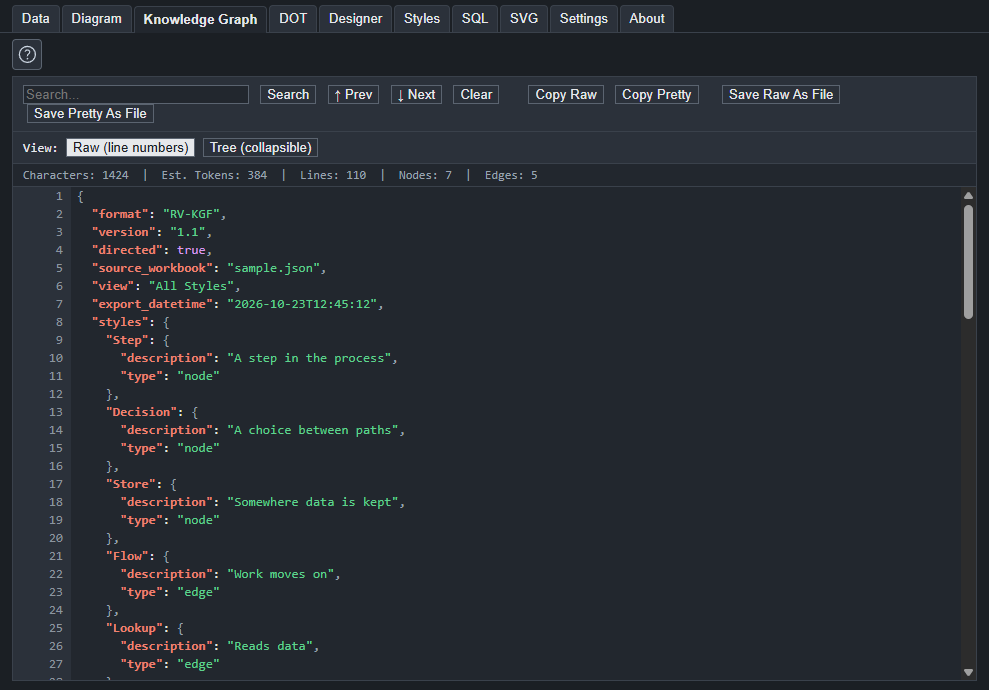
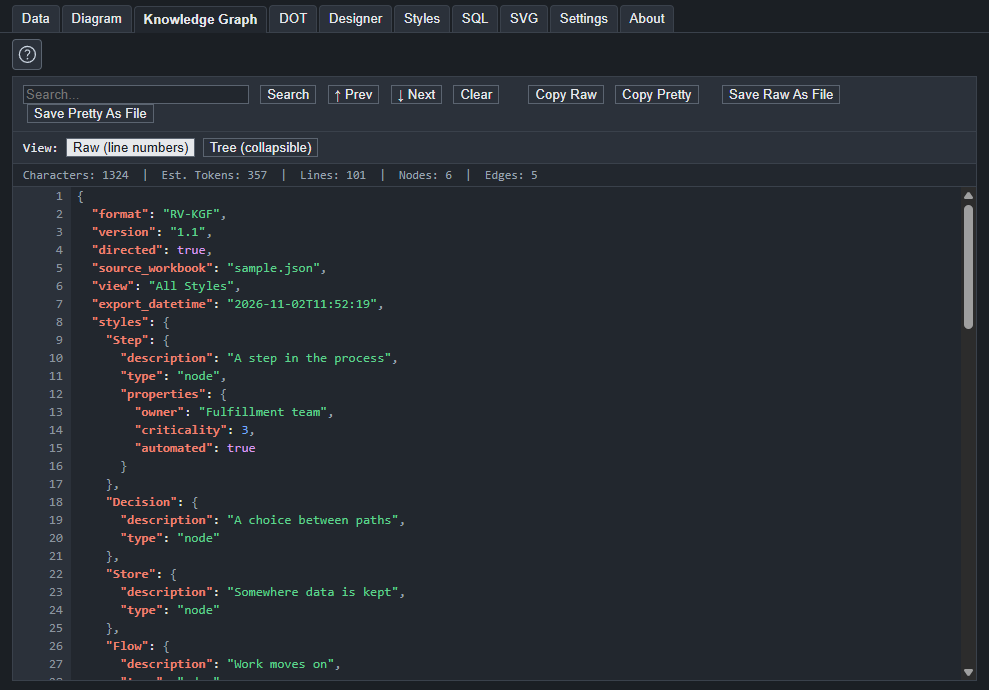
Document beta 6: new screenshots, the license dialogs, the Designer's description and properties
All the screenshots of tabs with a toolbar are taken again, and the About, license, SQL edit, SVG edit and Properties windows are new.
The Designer page explains a style's Description and Properties and how a value is read, the Knowledge Graph page says where each part of the file comes
from, and the documentation home and Getting started say more about the Knowledge Graph. The Data and Diagram pages describe the split-window button,
the divider, saved column widths, adding several rows, and the new zoom. The SQL page says what to do with an Apple Numbers file. What's new has an entry
for beta 6, whose date is still to be set at release.

These pages describe beta 6, so they go live with it, not before.

diff --git a/content/docs/designer/index.md b/content/docs/designer/index.md
@@ -2,7 +2,8 @@
 
 A style is a name and a format, and the format is a list of Graphviz attributes such as `shape="box"` and `fillcolor="#e0f2f7"`.
 You can type a format into the Styles tab, but you need to know the attribute names and what values they take. The Designer
-lets you choose them from menus, shows the result as you go, and writes the format for you.
+lets you choose them from menus, shows the result as you go, and writes the format for you. It also holds the **Description** and the **Properties** of a style, which
+do not change the drawing but travel with the style into the [Knowledge Graph](/docs/knowledge-graph/).
 
 <img class="shot shot-light" src="/shots/designer-light.png" alt="The Designer building a node style, with a preview and the format string it writes">
 <img class="shot shot-dark" src="/shots/designer-dark.png" alt="The Designer in the dark theme">
@@ -12,7 +13,8 @@ lets you choose them from menus, shows the result as you go, and writes the form
 1. Choose what you are designing with **Node**, **Edge** or **Cluster** at the top, each with a small picture of what it is. Only the choices that apply to it are shown.
 2. Pick values on the left. The preview on the right is drawn by Graphviz after every change, and the **Format string** below
    it shows what is being written.
-3. Give the style a **Style name** and, if you like, a **Description**.
+3. Give the style a **Style name**. A **Description** and **Properties** say what the style means, for the Knowledge Graph; see
+   [Description and properties](#description-and-properties).
 4. Press **Save to styles**. The style is added to the Styles tab, or updated if one of that name is there.
 
 To change a style you already have, click its **Format** cell on the Styles tab and press the pencil that appears in the cell. The Designer opens with that
@@ -38,7 +40,6 @@ The choices are in groups, and the ones that do not apply to what you are design
 - **Packing (osage layout)** is offered for a cluster when the layout is osage. See [Units and packing](/docs/units-and-packing/#the-osage-layout-and-clusters).
 - **Position** choices, such as where a label sits in a cluster, are buttons with an icon: vertical position first, then
   horizontal. A second press on the chosen button clears it.
-- **Properties** are facts about the style that do not change the drawing but go into the Knowledge Graph.
 
 The tick boxes under **Label text** decide whether the text typed there becomes part of the style, or is only used to draw the
 preview.
@@ -47,6 +48,46 @@ preview.
 style was made.
 
 For the meaning of each attribute, see [Graphviz's own pages on attributes](https://graphviz.org/doc/info/attrs.html).
+
+## Description and properties
+
+A style says how something looks, and it can also say what it is. Under the preview, beside the **Style name**, are a **Description** and **Properties**. Neither changes
+how anything is drawn. Both go into every [Knowledge Graph](/docs/knowledge-graph/) that uses the style, so a program or an AI tool that reads the file learns what a
+`Step` is without having to see the picture.
+
+- **Description** is a sentence about the kind of thing the style stands for, such as "A step in the process" or "Somewhere data is kept". It is also the **Description**
+  column of the [Styles](/docs/styles/) tab.
+- **Properties** are facts that go with every node, edge or cluster of the style: who owns that kind of thing, how critical it is, which system it lives in. The box shows
+  them as `name=value` pairs. Press the **pencil** beside it to open **Properties of style "Step"**, a small grid with a line for each property.
+
+<img class="shot shot-light" src="/shots/properties-light.png" alt="The Properties box of a style, with three properties and how each is read">
+<img class="shot shot-dark" src="/shots/properties-dark.png" alt="The Properties box of a style, with three properties and how each is read in the dark theme">
+
+Each line has a **Name**, a **Value**, and **Read as**, which says how the value will be written into the Knowledge Graph. The plus button adds a line and the minus button at
+the end of a line removes it. **Save** keeps the changes in the style, and **Cancel** leaves it as it was. The way a value is typed decides how it is read:
+
+| You type | Read as | In the Knowledge Graph |
+| --- | --- | --- |
+| `"Fulfillment team"` | text | `"Fulfillment team"` |
+| `3` | number | `3` |
+| `true` | true/false | `true` |
+| `"3"` | text | `"3"` |
+
+Text with spaces goes in double quotes. A bare number is a number, and a bare `true` or `false` is a true/false value; the same words in quotes are text. So
+`criticality=3` lets a program add up and compare, where `criticality="3"` does not.
+
+The style above comes out in the Knowledge Graph like this:
+
+```json
+"Step": {
+  "description": "A step in the process",
+  "type": "node",
+  "properties": { "owner": "Fulfillment team", "criticality": 3, "automated": true }
+}
+```
+
+Press **Save to styles** to write the Description and the Properties along with the format. A row on the [Data](/docs/data/) tab can have properties of its own, in its **Properties** column.
+Those belong to that one node or edge, and the style's belong to every one of that style.
 
 ## Pictures in nodes
 

diff --git a/content/docs/about/index.md b/content/docs/about/index.md
@@ -2,7 +2,7 @@
 
 The About tab says what you are running, whether it has a commercial license, who made it, and what it is built on.
 
-<img class="shot shot-light" src="/shots/about-light.png" alt="The top of the About tab, with the version information">
+<img class="shot shot-light" src="/shots/about-light.png" alt="The top of the About tab, with the name of the program and the start of the license section">
 <img class="shot shot-dark" src="/shots/about-dark.png" alt="The top of the About tab in the dark theme">
 
 ## Your license
@@ -10,11 +10,34 @@ The About tab says what you are running, whether it has a commercial license, wh
 Graph Modeler is free for personal, educational, research and other non-commercial use, and a commercial license is for use at work, for a business or for clients.
 The first time the program starts it asks which applies to you, and this section shows the answer. **Nothing is switched off, whichever you choose.**
 
+### The first time it starts
+
+<img class="shot shot-light" src="/shots/license-welcome-light.png" alt="The question asked when the program starts for the first time, with three choices">
+<img class="shot shot-dark" src="/shots/license-welcome-dark.png" alt="The question asked when the program starts for the first time, with three choices in the dark theme">
+
+There are three choices:
+
+- **Enter license key** is for a commercial license you have bought. See below for how to get the key. The box takes the key and asks Polar whether it is valid.
+- **I will use it only for personal or other non-commercial purposes** goes on to one more step, which says what the license covers and asks you to tick a box that confirms it.
+  **Continue** stays off until the box is ticked. The date you confirmed is kept on your computer and shown here on the About tab. Nothing is sent anywhere.
+- **Buy a license** opens the [Pricing](/pricing/) page in your browser, where the price and the buy button are.
+
+<img class="shot shot-light" src="/shots/license-confirm-light.png" alt="The confirmation for personal use, with its box ticked">
+<img class="shot shot-dark" src="/shots/license-confirm-dark.png" alt="The confirmation for personal use, with its box ticked in the dark theme">
+
+<img class="shot shot-light" src="/shots/license-key-light.png" alt="The box that takes a license key">
+<img class="shot shot-dark" src="/shots/license-key-dark.png" alt="The box that takes a license key in the dark theme">
+
+If you close the question without answering, it asks again the next time the program starts. You can enter a key at any time from this tab.
+
+<img class="shot shot-light" src="/shots/about-license-light.png" alt="The license and updates sections of the About tab">
+<img class="shot shot-dark" src="/shots/about-license-dark.png" alt="The license and updates sections of the About tab in the dark theme">
+
 | It says | It means |
 | --- | --- |
 | **Licensed for commercial use** | A commercial license key was entered and Polar accepted it. It shows who the license is for, the key with most of it hidden, and the date it was last checked. |
 | **Licensed for non-commercial use** | A key for free non-commercial use was entered. It shows the same lines. |
-| **No commercial license: personal and non-commercial use only** | You chose free personal use, on the date shown. |
+| **No commercial license: personal and non-commercial use only** | You confirmed free personal use, on the date shown. A choice made in an earlier beta, before the confirmation existed, shows "chosen" in place of "confirmed". |
 | **No commercial license** | You have not answered the question yet. |
 
 The buttons:
@@ -23,7 +46,7 @@ The buttons:
   then shows your key. The program asks Polar whether the key is valid, and keeps it only if it is.
 - **Check now** asks Polar again at once. Otherwise a key is checked when you enter it and about every 30 days when the program starts.
 - **Enter another key** and **Remove key** change or clear the key.
-- **Buy a license** opens the [License](/license/) page in your browser.
+- **Buy a license** opens the [Pricing](/pricing/) page in your browser. The [License](/license/) page has the full text of the license.
 
 If Polar cannot be reached, because you are offline or behind a firewall, nothing changes: the program keeps the last result and no message is shown. Only when Polar
 says the key is no longer active, for example after a refund, does the program take the key off and ask the first question again, with the reason. It can still be used

diff --git a/content/docs/data/index.md b/content/docs/data/index.md
@@ -44,7 +44,7 @@ choose that style in the **Style Name** cell of the row that opens it.
 | **Item** | The node, or the start of an edge. |
 | **Label** | The text drawn on the node or the edge. Leave it empty to use the item's name. |
 | **Related Item** | The end of an edge. |
-| **Style Name** | The style the row uses. The list holds the styles of the Styles tab. |
+| **Style Name** | The style the row uses. The list holds the styles that suit the row: the node styles for a node, the edge styles for an edge, and so on. A row whose **Item** is `node` or `edge` sets the defaults for every node or every edge after it, so its list holds the node styles or the edge styles. A `graph` row is offered the keyword styles. |
 | **Attributes** | Graphviz attributes for this row alone, such as `color=red penwidth=2`. They win over the style's. |
 | **Properties** | Facts about the item that do not change the drawing but go into the Knowledge Graph, such as `owner="Finance" tier=1`. The pencil opens a small grid to edit them. |
 
@@ -58,13 +58,26 @@ A style's label can use `{label}`, `{xlabel}`, `{taillabel}` and `{headlabel}`, 
 - Type in a cell, or paste rows copied from Excel or another grid. Several cells paste at once.
 - Drag the small handle at the corner of the chosen cell to fill down.
 - **Undo** and **Redo** in the left pane step through your changes, including a paste or a fill.
-- The **Rows** buttons add a row above or below, remove the chosen rows, and comment them out or back in.
+- The row buttons add a row above or below, remove the chosen rows, and comment them out or back in. Choose several rows and **Add row above** or **Add row below** adds as many
+  rows as you chose, the way **Delete rows** removes as many.
+- Drag the edge of a column's heading to change the width of the column. The widths are saved with the project, and each of the Data, Styles and SQL tabs keeps its own.
+  **Reset widths**, in the menu of the columns button, puts the columns of that tab back to their usual widths.
 - **Clear data** (the trash can with sweep lines) removes every row and keeps your styles. A new project starts with a few
   empty rows to type into.
 
 ## Seeing the graph
 
-The **Graph** menu on the toolbar puts the diagram on its own tab, or beside the data so that you see it change as you type.
-The button beside it, with the arrows going round, draws after every change, and the button after that draws once.
+The button with the split window on the toolbar shows the diagram beside the data, so that you see it change as you type, and hides it again when you want the whole width for the data.
+The diagram is always on the [Diagram](/docs/diagram/) tab as well. The button beside it, with the arrows going round, draws after every change, and the button after that draws once.
 
-The bug button adds each row's number to its label, which is a quick way to find the row behind something odd in the picture.
+<img class="shot shot-light" src="/shots/data-graph-light.png" alt="The Data tab with the diagram beside the rows">
+<img class="shot shot-dark" src="/shots/data-graph-dark.png" alt="The Data tab with the diagram beside the rows, in the dark theme">
+
+The line between the data and the diagram can be dragged to give either more room, which helps on a small screen, and a double-click puts it back in its usual place. With the line selected, the left and right
+arrow keys move it, **Home** and **End** take it to its limits, and **Enter** puts it back. Where you left it is saved with the project.
+
+## The toolbar
+
+From left to right: the row buttons; the diagram buttons (show it beside the data, draw after every change, draw now); the columns button, which shows or hides columns and resets their widths, and the wrap button
+where a column can wrap; then the buttons that are used least, **Clear data** and the bug. The bug button adds each row's number to its label, which is a quick way to find the row behind
+something odd in the picture. **Clear data** removes every row and keeps your styles, and it is at the far end so that it is not pressed by mistake.

diff --git a/content/docs/diagram/index.md b/content/docs/diagram/index.md
@@ -6,28 +6,28 @@ it change how Graphviz lays it out, so you flip between choices until the pictur
 <img class="shot shot-light" src="/shots/diagram-light.png" alt="The Diagram tab, with its buttons for layout, edge routing, graph type, direction and output order">
 <img class="shot shot-dark" src="/shots/diagram-dark.png" alt="The Diagram tab in the dark theme">
 
-The diagram can also sit beside the data. The **Graph** menu on the Data tab chooses between that and a tab of its own, and the
-same buttons are over the picture either way.
+The diagram can also sit beside the data. The button with the split window on the Data tab shows or hides it there, and the
+same buttons are over the picture either way. The line between the data and the picture can be dragged to give either more room; see [The Data tab](/docs/data/#seeing-the-graph).
 
 ## The buttons
 
-Hover over a button to read what it does. From left to right:
+Hover over a button to read what it does. The ones you use most are first, and the ones you set once and leave are after them. From left to right:
 
 | Group | Choices |
 | --- | --- |
-| **Layout engine** | Graphviz has eight ways of placing nodes. **dot** puts them in ranks, which suits flows and hierarchies. **neato**, **fdp** and **sfdp** are spring models that pull connected nodes together, and **sfdp** is for large graphs. **circo** puts nodes on a circle. **twopi** puts them in rings around a center. **osage** lays out clusters, and **patchwork** draws a treemap. |
-| **Edge routing** | How edges run: smooth curves (`spline`), straight lines, polylines, curved arcs, right angles (`ortho`), or no edges drawn. |
+| **Zoom** | The box shows the magnification in percent. Type any whole number from 5 to 800, or choose one from its list. The minus and plus buttons step to the next value: by 5% up to 150%, by 25% up to 400%, and by 100% above that. The three buttons after them fit the whole picture in the window, to the width of the window, or to its height. While a fit is on, the box shows the magnification it comes to, and the minus and plus buttons start from it. |
 | **Graph type** | Directed, with arrows, or undirected, without. |
+| **Layout engine** | Graphviz has eight ways of placing nodes. **dot** puts them in ranks, which suits flows and hierarchies. **neato**, **fdp** and **sfdp** are spring models that pull connected nodes together, and **sfdp** is for large graphs. **circo** puts nodes on a circle. **twopi** puts them in rings around a center. **osage** lays out clusters, and **patchwork** draws a treemap. |
 | **Direction** | Which way the ranks run: top to bottom, left to right, bottom to top or right to left. Only the **dot** engine uses this. |
+| **Edge routing** | How edges run: smooth curves (`spline`), straight lines, polylines, curved arcs, right angles (`ortho`), or no edges drawn. |
 | **Output order** | **Nodes first** draws the edges over the nodes. **Edges first** draws them under, which is what to choose when edges cross behind a node in a large graph. The other two orders Graphviz has, breadth first and depth first, are seldom wanted and are in Settings. |
-| **Zoom** | Fit to the window, to its width or to its height, or a percentage in steps of five. |
 
 For edge routing, direction and output order, pressing the button that is on again goes back to Graphviz's own choice. The same choices
 are in **Settings**, with the picture of the one in use beside each.
 
 ## Drawing
 
-The two buttons beside the **Graph** menu on the Data tab decide when the picture is drawn. The one with the arrows going round draws
+The two buttons beside the split-window button on the Data tab decide when the picture is drawn. The one with the arrows going round draws
 after every change. Turn it off for a large graph that is slow to draw, and press the other one, which draws once, when you are ready. A
 picture that is out of date says so.
 

diff --git a/content/docs/knowledge-graph/index.md b/content/docs/knowledge-graph/index.md
@@ -32,7 +32,11 @@ messages**, with its row number.
   "directed": true,
   "view": "All Styles",
   "styles": {
-    "Step": { "description": "A step in the process", "type": "node" }
+    "Step": {
+      "description": "A step in the process",
+      "type": "node",
+      "properties": { "owner": "Fulfillment team", "criticality": 3, "automated": true }
+    }
   },
   "nodes": [
     { "id": "Order received", "style": "Step", "label": { "value": "Order received", "type": "text" } }
@@ -50,6 +54,17 @@ messages**, with its row number.
   number, `true` and `false` are booleans, and a quoted value is text. The properties of a style are listed with the style, and the
   properties of a node or an edge are its own.
 - The file says where it came from in `source_workbook`, a name kept from the [Excel tool](/docs/from-excel/) that this app grew out of. It is the name of the project file, or the project name when the project is not saved yet. The time it was made is there too.
+
+## Where each part comes from
+
+| In the file | It comes from |
+| --- | --- |
+| a style's `description` | The **Description** of the style, on the [Styles](/docs/styles/) tab and in the [Designer](/docs/designer/#description-and-properties). |
+| a style's `type` | The **Style Type** of the style: node, edge, cluster and so on. |
+| a style's `properties` | The **Properties** of the style. |
+| a node's `id`, `label` and `style` | The **Item**, **Label** and **Style Name** of the row on the [Data](/docs/data/) tab. |
+| an edge's `source`, `target` and `style` | The **Item**, **Related Item** and **Style Name** of the row. |
+| a node's or an edge's `properties` | The **Properties** of the row, which belong to that one node or edge. |
 
 ## The format
 
@@ -74,3 +89,11 @@ and not replaced.
 A diagram needs only names and links. A Knowledge Graph is worth more when each node and edge says what it is, who owns it, how critical it
 is, and so on. Add those as properties, on the style when everything of that kind shares them and on the row when it is particular, and
 the file carries them.
+
+- **A description on every style** tells a reader what the kind of thing is. A person reading the file, or an AI tool you ask about it, has the words and not only the shape.
+- **Properties on the style** hold what every thing of that kind shares: `owner="Finance"`, `layer="database"`, `criticality=3`.
+- **Properties on a row** hold what is particular to one node or edge: `rpo_hours=4`, `last_reviewed="2026-09-30"`.
+- **Type the value the way you want it read.** A bare number is a number and `true` is a true/false value, so a program can add up and compare. Put a value in quotes to keep it as text.
+
+The [Designer](/docs/designer/#description-and-properties) has a small grid for a style's properties, and the **Properties** column of the [Data](/docs/data/) and
+[Styles](/docs/styles/) tabs has the same pencil. Use the same names on every style and row, for the same kind of fact, so that the file can be searched and compared.

diff --git a/content/docs/getting-started/index.md b/content/docs/getting-started/index.md
@@ -18,7 +18,8 @@ check`, and then `Ship order` on the one after. Each is a node, and each row has
 To connect two of them, put one in **Item** and the other in **Related Item**. A row with `Order received` and `Credit check` is an edge
 from the first to the second. Its dot is orange. Add `Credit check` to `Ship order` the same way.
 
-The diagram appears beside the data, so you see it change as you type. If you do not see a picture, see [Without Graphviz](/docs/diagram/#without-graphviz). The **Graph** menu on the toolbar moves it to a tab of its own.
+The diagram appears beside the data, so you see it change as you type. If you do not see a picture, see [Without Graphviz](/docs/diagram/#without-graphviz). The button with the split window on the
+toolbar hides it, to give the data the whole width, and the diagram is always on the **Diagram** tab.
 
 <img class="shot shot-light" src="/shots/data-light.png" alt="The Data tab with a small graph typed in">
 <img class="shot shot-dark" src="/shots/data-dark.png" alt="The Data tab in the dark theme">
@@ -35,12 +36,24 @@ Every node and edge so far uses the plain default style, so all of them look ali
 Every row that uses `Step` follows it. Change the style again and they change together. See [the Designer](/docs/designer/) and
 [the Styles tab](/docs/styles/).
 
-## 4. Lay it out
+## 4. Say what they mean
+
+A style says how a thing looks. It can also say what it is, and that is what the Knowledge Graph carries.
+
+1. On the **Styles** tab, click the **Format** cell of `Step` and press the pencil, which opens the style in the **Designer**.
+2. Type a **Description**, such as `A step in the process`.
+3. Press the pencil beside **Properties** and add a property or two: a **Name** such as `owner` and a **Value** such as `"Fulfillment team"`. A bare number or `true` is read as a number or a true/false value, and
+   a value in quotes is text.
+4. Press **Save to styles**.
+
+Nothing in the picture changes. Open the **Knowledge Graph** tab and the style is there with its description and properties. See [the Designer](/docs/designer/#description-and-properties).
+
+## 5. Lay it out
 
 Open the **Diagram** tab. The buttons above the picture change the layout: left to right is easier to read for a process, and the layout
 engines place nodes in different ways. Try a few. See [the Diagram tab](/docs/diagram/).
 
-## 5. Publish it
+## 6. Publish it
 
 In the left pane, under **Publish**:
 
@@ -55,7 +68,7 @@ Press **Publish**, and the files written are listed. The pane is described on [i
 The diagram can be an SVG, a PNG, a PDF and more; the format is set under **Settings**. The Knowledge Graph is a JSON file, described in
 [the Knowledge Graph tab](/docs/knowledge-graph/).
 
-## 6. Save the project
+## 7. Save the project
 
 **Save** writes the project to a `.json` file. Open it again later and your rows, styles and settings are back. The file is plain text,
 which you can read, keep under version control, or generate from another program.

diff --git a/content/docs/changelog/index.md b/content/docs/changelog/index.md
@@ -3,6 +3,34 @@
 What each version of Graph Modeler changed, newest first. Graph Modeler is in beta, so the version numbers are small and the changes are many. The installers for each are on the
 [Download](/download/) page. Where a change is explained on a page of its own, there is a link.
 
+## Version 0.1.5, beta 6 (November 2026)
+
+**New**
+
+- **Zoom you can type in.** The diagram's zoom is a box that takes any whole percent from 5 to 800, with a list of common values. The minus and plus buttons take bigger steps as the picture grows, and the three fit
+  buttons (to the window, to its width, to its height) are pictures, not words in a list. See [The Diagram tab](/docs/diagram/#the-buttons).
+- **A divider between the data and the graph.** Drag the line between the grid and the diagram on the Data tab to give either more room. A double-click puts it back, and the arrow keys move it. It is saved with the project.
+  See [The Data tab](/docs/data/#seeing-the-graph).
+- **Column widths are saved.** A column you drag to a new width keeps it, on the Data, Styles and SQL tabs, when you leave the tab and when you save and open the project. **Reset widths** in the columns menu puts them back.
+- **Several rows at once.** **Add row above** and **Add row below** add as many rows as you chose.
+- **A confirmation for personal use.** Choosing free personal use in the first question leads to one more step, with a box to tick. See [Your license](/docs/about/#your-license).
+- **The Knowledge Graph in the documentation.** The Designer page explains the Description and the Properties of a style, and the Knowledge Graph page says where each part of the file comes from.
+- **Pictures for the Linux software center.** The `.deb` tells the software center that the license is proprietary and gives it an all-ages rating, so Zorin OS and similar no longer say "Unknown license" and
+  "No age rating information available".
+
+**Changed**
+
+- **The toolbars put the most used buttons first.** On the Data tab the graph controls come before the columns button, and **Clear data** and the bug are at the far end. On every tab with a grid, the columns
+  and wrap buttons are just before Help. On the Diagram tab the zoom comes first, then the graph type, the layout engine, the direction, the edge routing and the output order.
+- **A button with a split window** shows or hides the diagram beside the data, in place of the **Graph** menu.
+- **Buy a license** opens the Pricing page, where the buy button is in plain view.
+
+**Fixed**
+
+- Pressing Zoom in on a diagram that was fitted to the window jumped to 105%, whatever the fit was. It now steps from the magnification the fit comes to.
+- A row whose item is `node` or `edge` offered the keyword styles in **Style Name**. It now offers the node styles or the edge styles.
+- The one-line description of the Linux package was empty.
+
 ## Version 0.1.4, beta 5 (October 31, 2026)
 
 **New**

diff --git a/content/docs/sql/index.md b/content/docs/sql/index.md
@@ -16,6 +16,8 @@ Data tab with what they produce, as one step that **Undo** puts back.
 - **Access databases** (`.mdb` and `.accdb`). Each table is a table, with its own column names: `FROM [timeline]`. Only the tables are
   read. Saved queries, linked tables and password-protected databases are not supported.
 - **SQLite databases** (`.sqlite` and `.sqlite3`). Each table is a table, as the file has it.
+- **Apple Numbers** (`.numbers`) files are not read. In Numbers, choose **File**, **Export To** and **Excel** (or **CSV**), and give the exported file to Graph Modeler. Each table of the Numbers
+  document becomes a sheet of the workbook.
 
 You do not need Excel to use any of these, so on Linux a LibreOffice spreadsheet, a workbook saved as `.xlsx` or a CSV file all work.
 
@@ -69,6 +71,14 @@ makes the nodes and the second makes the edges. The rows come out in the order t
 Queries written for the [Excel tool](/docs/from-excel/) this app grew out of mostly run unchanged. `&` joins text, double quotes can hold a string, and the Jet functions
 `Len`, `Mid`, `UCase`, `LCase`, `Nz`, `CLng`, `CInt`, `CDbl`, `CStr`, `IsNumeric`, `Left`, `Right` and `Switch` are there. Some
 things Jet does and SQLite does not are not, such as `Format` and `DateDiff`, and the message of the line says so.
+
+## Writing a long statement
+
+The grid shows each statement on one line, and cuts it short. The pencil in the **SQL Statement** cell opens a box with the whole statement, where it can run over several lines. **Save** keeps it and
+**Cancel** leaves it as it was, and **Wrap text** wraps long lines so they can be read without scrolling.
+
+<img class="shot shot-light" src="/shots/sql-edit-light.png" alt="The box for editing a statement, with a query written over several lines">
+<img class="shot shot-dark" src="/shots/sql-edit-dark.png" alt="The box for editing a statement, with a query written over several lines in the dark theme">
 
 ## Commands
 

diff --git a/content/docs/index.md b/content/docs/index.md
@@ -5,11 +5,13 @@ Graph Modeler™ turns rows of data into a graph. Three things do the work, and 
 **The rows** are on the [Data](/docs/data/) tab. Each row is an item, or a relationship between two items, or a marker that
 opens or closes a cluster. A row can name a style.
 
-**The styles** say how things look. A style has a name and a format, and the format is a set of Graphviz attributes such as
-`shape`, `color` and `fontname`. The Styles tab lists them, and the [Designer](/docs/designer/) builds one from menus.
+**The styles** say how things look, and what they are. A style has a name and a format, and the format is a set of Graphviz attributes such as
+`shape`, `color` and `fontname`. It also has a description and properties, which do not change the drawing but go into the Knowledge Graph. The Styles tab
+lists the styles, and the [Designer](/docs/designer/) builds one from menus.
 
-**The output** comes from the rows and the styles together. The app writes them as DOT, the text Graphviz reads, draws
-the DOT with Graphviz, and can also publish the same rows as a Knowledge Graph in JSON.
+**The output** comes from the rows and the styles together. The app writes them as DOT, the text Graphviz reads, and draws
+the DOT with Graphviz. It can also publish the same rows as a [Knowledge Graph](/docs/knowledge-graph/), a JSON file that states what each node and edge is, with its
+style's description and properties, for programs and AI tools. One model gives you the picture and the data behind it.
 
 ## Start here
 

diff --git a/content/docs/svg/index.md b/content/docs/svg/index.md
@@ -21,9 +21,15 @@ A rule has a **Find** and a **Replace**. They run from the top, and each one rep
 A rule is plain text replacement, with no special codes to learn.
 
 - **Add**, the plus button at the top, adds a rule. The buttons at the end of a row move it up or down, add one below it, or delete it.
-- The pencil beside a cell opens the whole text, for the long script a rule can hold.
+- The pencil beside a cell opens a box with the whole text, for the long script a rule can hold. A cell shows a long text as its start, with the number of characters.
 - The **#** cell comments a rule out, and a commented-out rule is skipped and doubles as a note.
 - **Standard rules** replaces all the rules with the ones that come with the app.
+
+<img class="shot shot-light" src="/shots/svg-edit-light.png" alt="The box for editing the replacement text of a rule, holding script">
+<img class="shot shot-dark" src="/shots/svg-edit-dark.png" alt="The box for editing the replacement text of a rule, holding script in the dark theme">
+
+The box shows the text in full, with **Wrap text** to wrap long lines. **Save** keeps your changes and **Cancel** throws them away. The rules above are the standard ones: the first few are notes, and the rest put
+the toolbar, the zoom and the highlighting into the SVG, one piece to a rule.
 
 The standard rules are based on the work of Bart Brood, in
 [dynamic-SVG-from-Graphviz](https://github.com/BartBrood/dynamic-SVG-from-Graphviz). They add the toolbar, the zoom and pan, the filters
